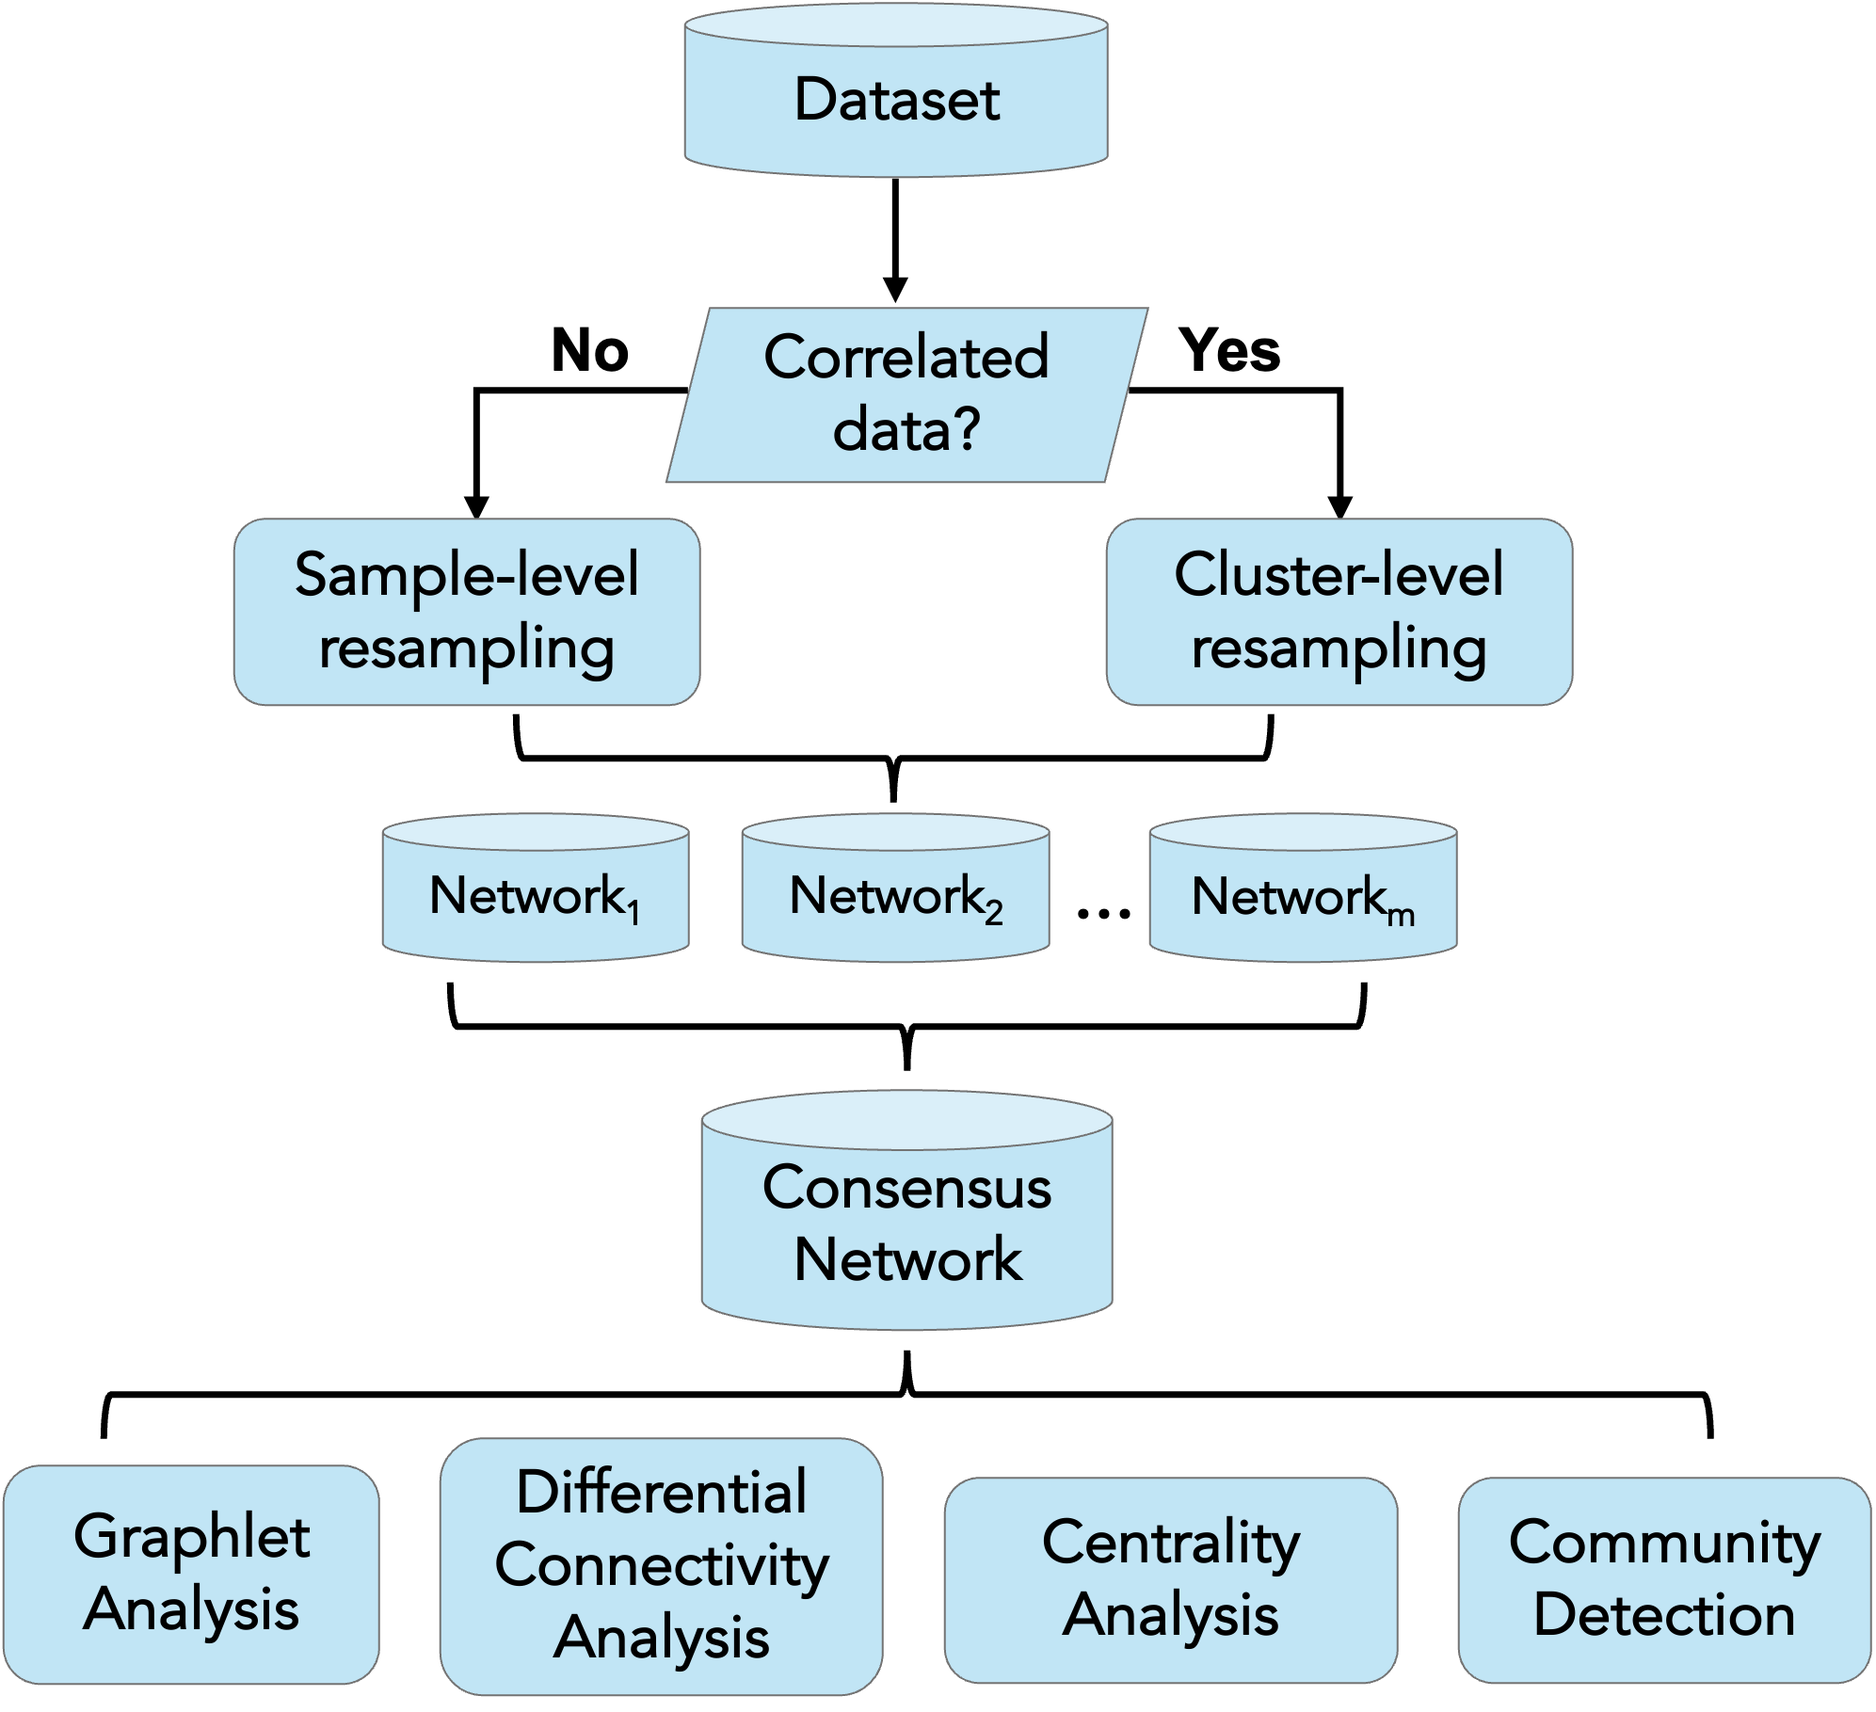
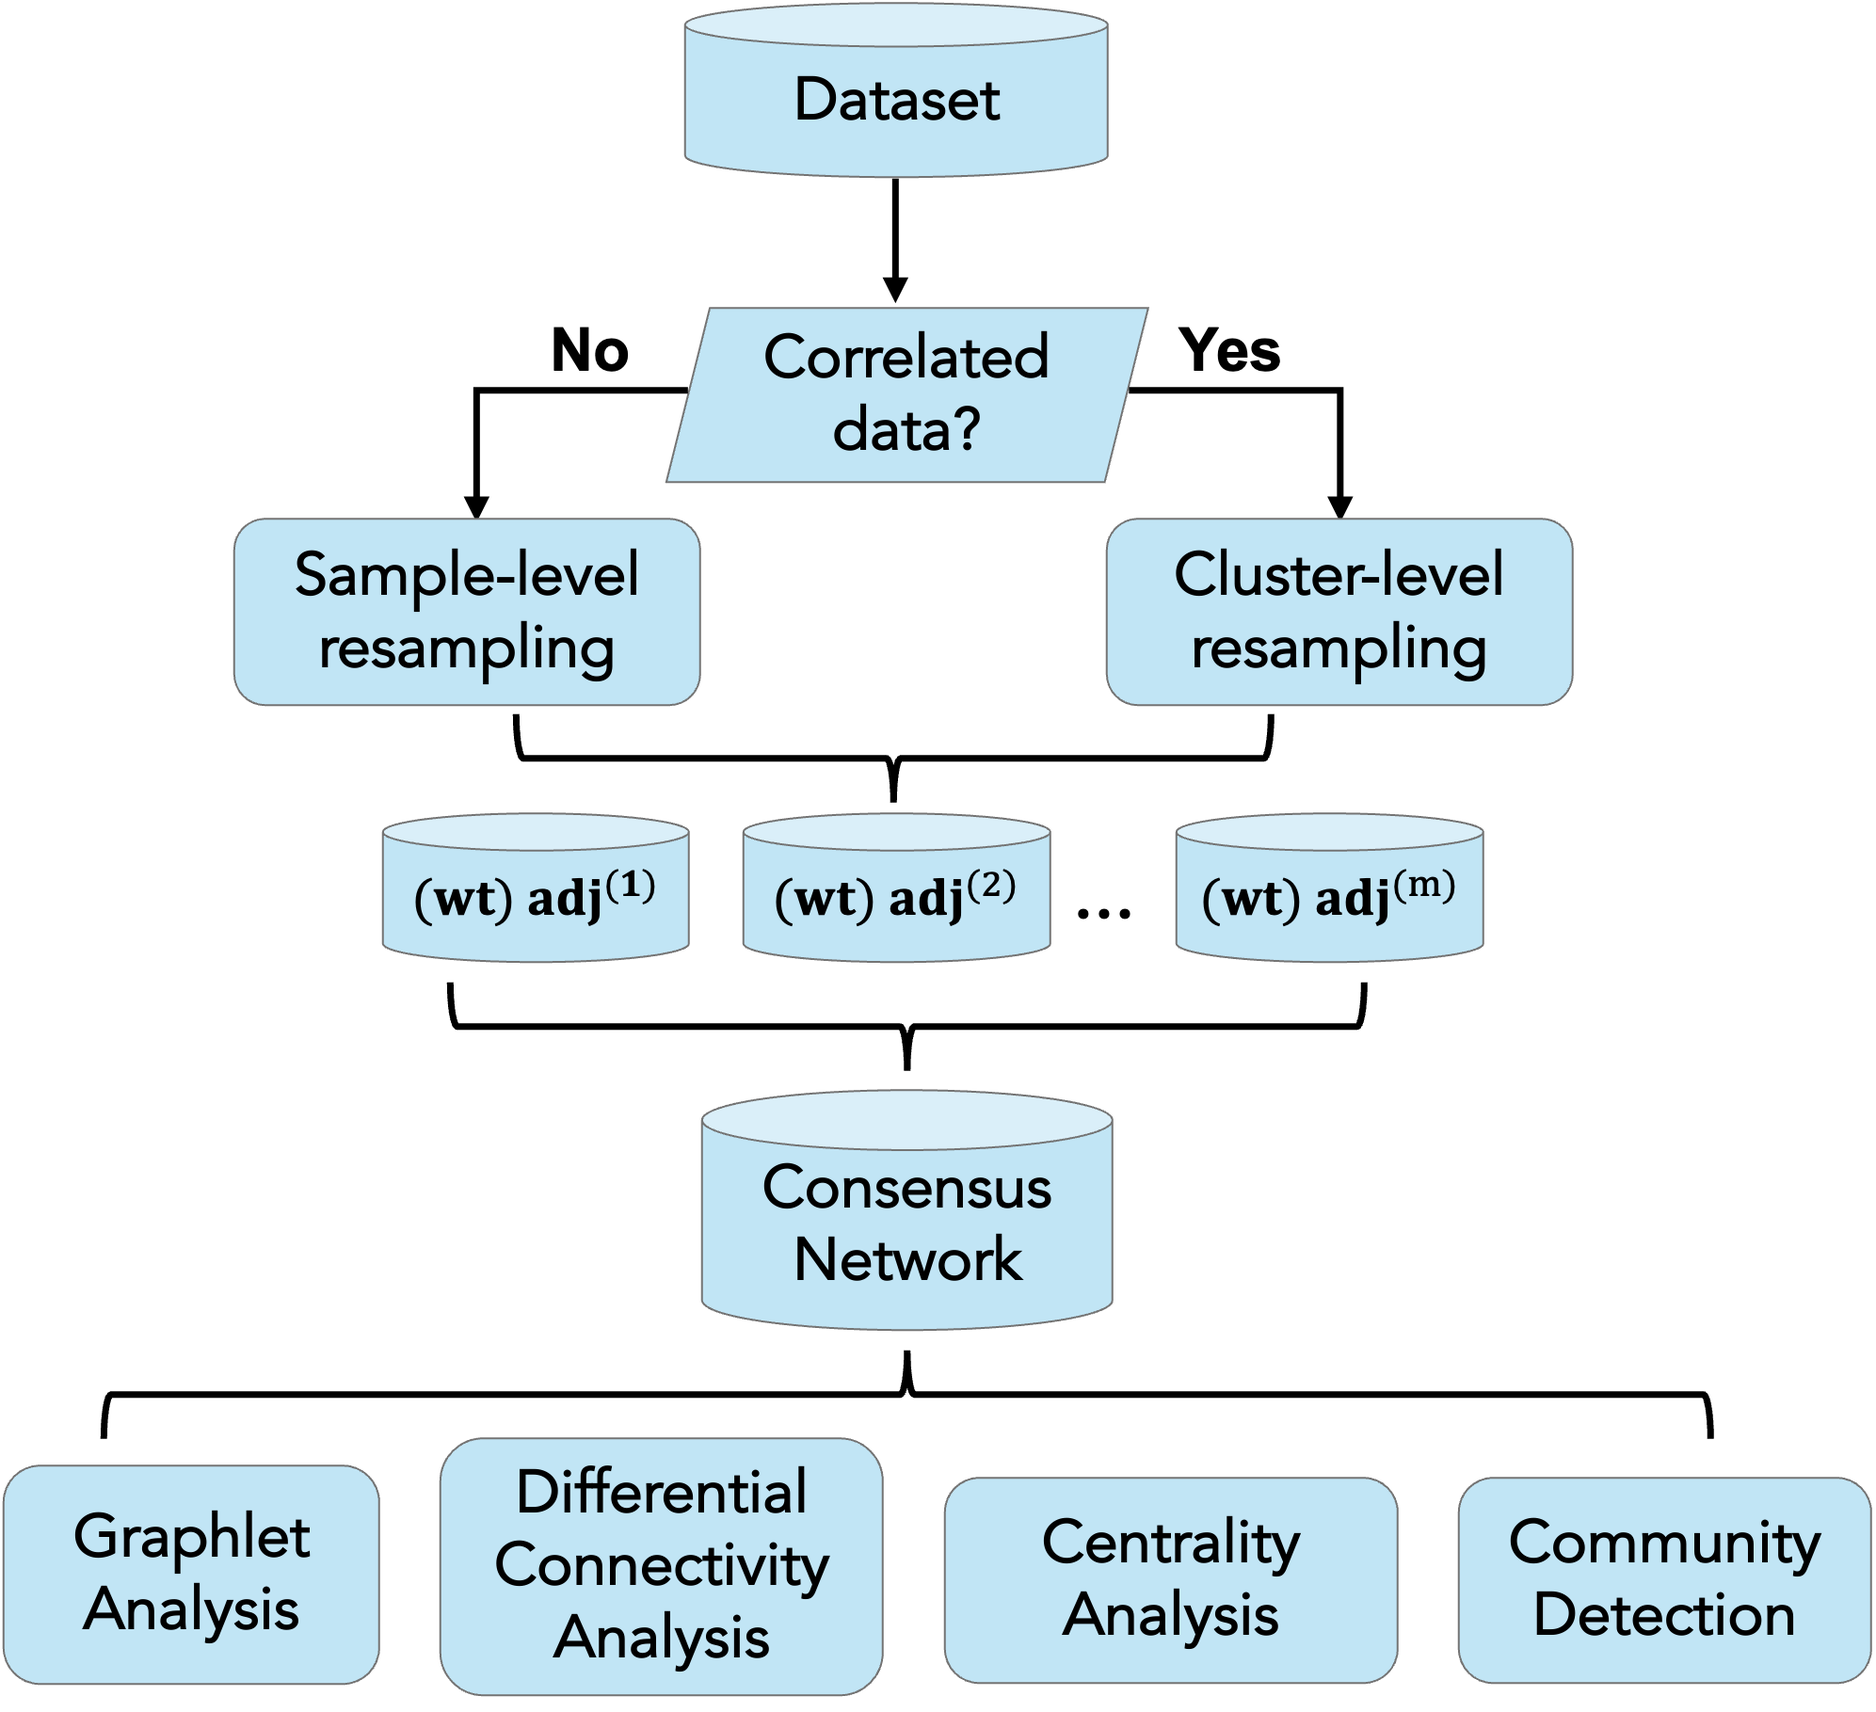
Modified paper

Changed region(s): [[0.5911, 0.4618, 0.8088, 0.5849], [0.4044, 0.4926, 0.56, 0.5542], [0.2178, 0.4926, 0.3422, 0.5542]]

diff --git a/paper/paper.md b/paper/paper.md
@@ -45,7 +45,7 @@ RSNet is an open-source R package that provides a resampling-based framework for
 
 # Statement of need
 
-Network inference methods are widely used to model dependencies among variables in high-dimensional data, supporting discovery and hypothesis generation in diverse research domains [@federico2023structure; @fan2016overview; @friedman2008sparse; @friedman2000using]. Commonly applied approaches such as correlation or co-expression networks [@zhang2005general; @yang2014gene; @ruan2010general] are easy to implement but cannot distinguish direct from indirect dependencies [@federico2023structure]. In contrast, Gaussian networks, also known as partial correlation neworks [@federico2023structure; @fan2016overview; @friedman2008sparse], and conditional Gaussian Bayesian networks (CGBNs)[@mcgeachie2014cgbayesnets; @bottcher2005learning] estimate conditional dependencies, offering a higher-resolution representation of complex systems. However, the reliability of inferred network structures is often compromised by the limited sample sizes in high-dimensional data, a challenge commonly referred to as the “small n, large p” problem, where n denotes the number of samples and p the number of variables [@federico2023structure; @friedman2008sparse; @friedman2000using; @kalisch2007estimating]. RSNet addresses this limitation by introducing a resampling-based framework that quantifies edge-level uncertainty and integrates information across multiple inferred networks to construct a robust consensus network. The framework supports both Gaussian networks for continuous data and CGBNs for mixed data types and can accommodate correlated or family-based observations [@song2025learning]. This design provides empirical confidence intervals, adjusted p-values, and edge-selection frequencies, offering a fine-grained assessment of network reliability and structure [@friedman2000using; @zhang2018silggm; @jankova2017honest].
+Network inference methods are widely used to model dependencies among variables in high-dimensional data, supporting discovery and hypothesis generation in diverse research domains [@federico2023structure; @fan2016overview; @friedman2008sparse; @friedman2000using]. Commonly applied approaches such as correlation or co-expression networks [@zhang2005general; @yang2014gene; @ruan2010general] are easy to implement but cannot distinguish direct from indirect dependencies [@federico2023structure]. In contrast, Gaussian networks, also known as partial correlation neworks [@federico2023structure; @fan2016overview; @friedman2008sparse], and conditional Gaussian Bayesian networks (CGBNs)[@mcgeachie2014cgbayesnets; @bottcher2005learning] estimate conditional dependencies, offering a higher-resolution representation of complex systems. However, the reliability of inferred network structures is often compromised by the limited sample sizes in high-dimensional data, a challenge commonly referred to as the “small $n$, large $p$” problem, where $n$ denotes the number of samples and $p$ the number of variables [@federico2023structure; @friedman2008sparse; @friedman2000using; @kalisch2007estimating]. RSNet addresses this limitation by introducing a resampling-based framework that quantifies edge-level uncertainty and integrates information across multiple inferred networks to construct a robust consensus network. The framework supports both Gaussian networks for continuous data and CGBNs for mixed data types and can accommodate correlated or family-based observations [@song2025learning]. This design provides empirical confidence intervals, adjusted p-values, and edge-selection frequencies, offering a fine-grained assessment of network reliability and structure [@friedman2000using; @zhang2018silggm; @jankova2017honest].
 
 In addition to improving reliability, RSNet enhances interpretability through graphlet-based topology analysis, which captures higher-order local connectivity patterns and incorporates edge sign information [@milenkovic2008uncovering; @das2019signed; @doria2020probabilistic]. These functionalities enable detailed examination of node-level structural roles and facilitate comparative analyses between networks inferred under different conditions [@tu2021differential; @gill2010statistical; @higgins2018differential]. Existing R packages for network inference do not support the construction of signed graphlet degree vector matrices (GDVMs), where brute-force enumeration has complexity greater than $O(p^{3})$, with $p$ denoting the network size. RSNet overcomes this barrier by combining state-of-the-art graphlet counting algorithms [@das2020efficient; @das2019algorithm; @hovcevar2016computation] with parallelization, establishing an efficient method to construct signed GDVMs in $O(∣d∣)$, where $∣d∣$ is the average degree, resulting in near-constant time complexity for sparse networks.
 
@@ -57,7 +57,6 @@ RSNet provides a unified, resampling-based framework for network inference and a
 
 For Gaussian networks, these estimates include empirical confidence intervals and nominal or adjusted p-values; for conditional Gaussian Bayesian networks, they correspond to edge-selection frequencies. The resulting consensus network forms the basis for downstream analyses such as centrality analysis, community detection, graphlet-based topology analysis, and differential connectivity analysis (Figure 1).
 
-![**Overview of RSNet.**  RSNet accepts a sample-by-feature dataset and allows users to specify whether observations are independent or correlated. The resampling framework generates an ensemble of weighted or binary adjacency matrices over m iterations, which are subsequently integrated into a consensus network that serves as the basis for downstream analyses.](figures/Figure1.png)
 
 RSNet is organized into modular functions that enable flexible, end-to-end workflows from network inference to higher-order structural analysis. The framework supports parallel computing to accelerate large-scale analyses, making RSNet a reproducible, scalable, and efficient platform for high-dimensional network inference.
 
@@ -76,9 +75,6 @@ The ensemble of networks generated from resampling iterations is integrated to c
 ## Graphlet degree vector matrix and graphlet correlation matrix
 
 Graphlets are small connected non-isomorphic induced subgraphs that capture higher-order connectivity patterns within a network [@milenkovic2008uncovering]. For graphlets containing between two and four nodes, there are eight unique structures and fifteen corresponding automorphism orbits (Figure 2A). The graphlet degree vector (GDV) of a node counts how many times the node participates in each orbit, generalizing the concept of node degree to higher-order structures [@milenkovic2008uncovering]. Collectively, these vectors form a graphlet degree vector matrix (GDVM) of dimension $p \times O$, where $p$ denotes the number of nodes and $O$ the number of orbits. 
-
-![**Unsigned and signed graphlets.** (A) The 2-, 3-, and 4-node graphlets G_0,G_1,…, G_8 and their automorphism orbits 0, 1, 2, …, 14. (B) The 2- and 3-node signed graphlets G_0,G_1,…, G_8 and their automorphism orbits 0, 1, 2, …, 14. Positive relationships are represented by black lines, and negative relationships are represented by red lines.](figures/Figure2.png)
-
 
 RSNet extends this framework to signed networks, incorporating edge sign information (positive or negative partial correlations) into graphlet enumeration [@das2020efficient]. Notably, the number of graphlets of size up to four and their orbits in unsigned networks is equivalent to the number of graphlets of size up to three in signed networks (Figure 2B) [@das2019algorithm], allowing a concise but informative representation of signed topologies [@das2020efficient; @das2019algorithm].
 
@@ -100,6 +96,12 @@ In addition to network inference, consensus construction, and graphlet-based ana
 RSNet provides a versatile and scalable R package for resampling-based network inference, designed to address the challenges of limited sample size in high dimensional datasets. By integrating both Gaussian networks and conditional Gaussian Bayesian networks, RSNet supports structure learning for continuous and mixed data types within a unified framework.
 The package enhances interpretability by integrating standard network analysis tools with graphlet-based methods for higher-order topological characterization. To the best of our knowledge, RSNet is the first R package to implement the construction of a signed GDVM in approximately constant time for sparse networks.
 To conclude, RSNet facilitates reproducible, statistically robust, and interpretable network analysis. Its modular and parallelized design supports large-scale applications while maintaining transparency and flexibility, making it a user-friendly open-source resource for high-dimensional network inference and comparative structural analysis.
+
+# Figures
+
+![**Overview of RSNet.**  RSNet accepts a sample-by-feature dataset and allows users to specify whether observations are independent or correlated. The resampling framework generates an ensemble of weighted or binary adjacency matrices over m iterations, which are subsequently integrated into a consensus network that serves as the basis for downstream analyses.](figures/Figure1.png)
+
+![**Unsigned and signed graphlets.** (A) The 2-, 3-, and 4-node graphlets G_0,G_1,…, G_8 and their automorphism orbits 0, 1, 2, …, 14. (B) The 2- and 3-node signed graphlets G_0,G_1,…, G_8 and their automorphism orbits 0, 1, 2, …, 14. Positive relationships are represented by black lines, and negative relationships are represented by red lines.](figures/Figure2.png)
 
 
 # Availability

diff --git a/README.md b/README.md
@@ -28,8 +28,11 @@ For Gaussian networks, **RSNet** further provides cluster-based sampling
 options specifically designed to accommodate correlated or family-based
 data, including:
 
-1.  Cluster-based bootstrap.
-2.  Fractional cluster-based bootstrap.
+1.  Cluster-based bootstrap, which resamples entire clusters with
+    replacement to preserve intra-cluster dependence.
+2.  Fractional cluster-based bootstrap, which resamples only a subset of
+    clusters with replacement, offering improved computational
+    efficiency while retaining cluster-level correlation structure.
 
 Beyond structure learning, **RSNet** includes a suite of network
 analysis tools containing standard network metrics, graphlet-based
@@ -100,18 +103,16 @@ The wrapper function `capture_all()` can be used to suppress messages
 generated during the execution of `ensemble_ggm()`.
 
 ``` r
-ensemble_er <- capture_all(
-  ensemble_ggm(dat = toy_er$dat,     # A n x p dataframe/matrix
-               num_iteration = 100,  # Number of resampling iteration
-               boot = TRUE,          # If FALSE, perform sub-sampling
-               sub_ratio = NULL,     # Subsampling ratio (0–1)
-               sample_class = NULL,  # Optional: for stratified sampling
-               correlated = FALSE,   # If TRUE, then clusted-based resampling is performed
-               cluster_ratio = 1,    # Used only when `correlated = TRUE`
-               estimate_CI = TRUE,   # If TRUE, estimate the empirical confidence interval
-               method = "D-S_NW_SL", # Inference method
-               n_cores = 1)          # Number of cores for parallel computing
-  )
+ensemble_er <- capture_all(ensemble_ggm(dat = toy_er$dat, # A n x p dataframe/matrix
+                                        num_iteration = 100, # Number of resampling iteration
+                                        boot = TRUE, # If FALSE, perform sub-sampling
+                                        sub_ratio = NULL, # Subsampling ratio (0–1)
+                                        sample_class = NULL, # Optional: for stratified sampling
+                                        correlated = FALSE, # If TRUE, then clusted-based resampling is performed
+                                        cluster_ratio = 1, # Used only when `correlated = TRUE`
+                                        estimate_CI = TRUE, # If TRUE, estimate the empirical confidence interval
+                                        method = "D-S_NW_SL", # Inference method
+                                        n_cores = 1)) # Number of cores for parallel computing
 ```
 
 ## (iv) Consensus network construction
@@ -131,12 +132,10 @@ significance using the filter parameter: nominal p-value
 whose confidence intervals include zero are automatically excluded.
 
 ``` r
-consensus_er <- consensus_net_ggm(
-  ggm_networks = ensemble_er, # The output of "ensemble_ggm()"
-  CI = 0.95,                  # Confidence interval
-  filter = "pval",            # Filter method
-  threshold = 0.05            # Significant level of the selected filter
-) 
+consensus_er <- consensus_net_ggm(ggm_networks = ensemble_er, # The output of "ensemble_ggm()"
+                                  CI = 0.95, # Confidence interval
+                                  filter = "pval", # Filter method
+                                  threshold = 0.05) # Significant level of the selected filter
 ```
 
 ## (v) Interactive visualization
@@ -162,14 +161,13 @@ conditions are met:
     attributes
 
 ``` r
-p <- plot_cn(
-  ig = consensus_er$consensus_network, # An "igraph" object
-  query = NULL,                        # Node of interests, NULL or a character vector
-  order = 1,                           # Order of neighbors
-  edge_label = "pcor",                 # The edge attribute to be shown
-  CI_show = TRUE,                      # Show empirical confidence interval
-  main = "Example"                     # Title
-) 
+p <- plot_cn(ig = consensus_er$consensus_network, # An "igraph" object
+             query = NULL, # Node of interests, NULL or a character vector
+             order = 1, # Order of neighbors
+             edge_label = "pcor", # The edge attribute to be shown
+             CI_show = TRUE, # Show empirical confidence interval
+             main = "Example") # Title
+
 
 p$p
 ```
@@ -182,21 +180,19 @@ p$p
 to quantify the relative importance or influence of individual nodes
 within a network. **RSNet** implements this functionality through the
 `centrality()` function, which computes several commonly used centrality
-measures, including **degree**, **strength**, **eigenvector**,
-**betweenness**, **closeness**, and **PageRank** centralities, using an
-`igraph` object as input. For weighted networks, users can specify the
-`weight` parameter to indicate the edge attribute representing the
-desired weighting scheme.
+measures, including **degree**, **strength (weighted degree)**,
+**eigenvector**, **betweenness**, **closeness**, and **PageRank**
+centralities, using an `igraph` object as input. For weighted networks,
+users can specify the `weight` parameter to indicate the edge attribute
+representing the desired weighting scheme.
 
 ``` r
-centrality(
-  ig = consensus_er$consensus_network,
-  weight = NULL
-) %>%
-  as.matrix(.) %>%
-  round(., 4) %>%
+centrality(ig = consensus_er$consensus_network,
+           weight = NULL) %>% 
+  as.matrix(.) %>% 
+  round(., 4) %>% 
   as.data.frame(.) %>%
-  head(.) %>%
+  head(.) %>% 
   DT::datatable(.)
 ```
 
